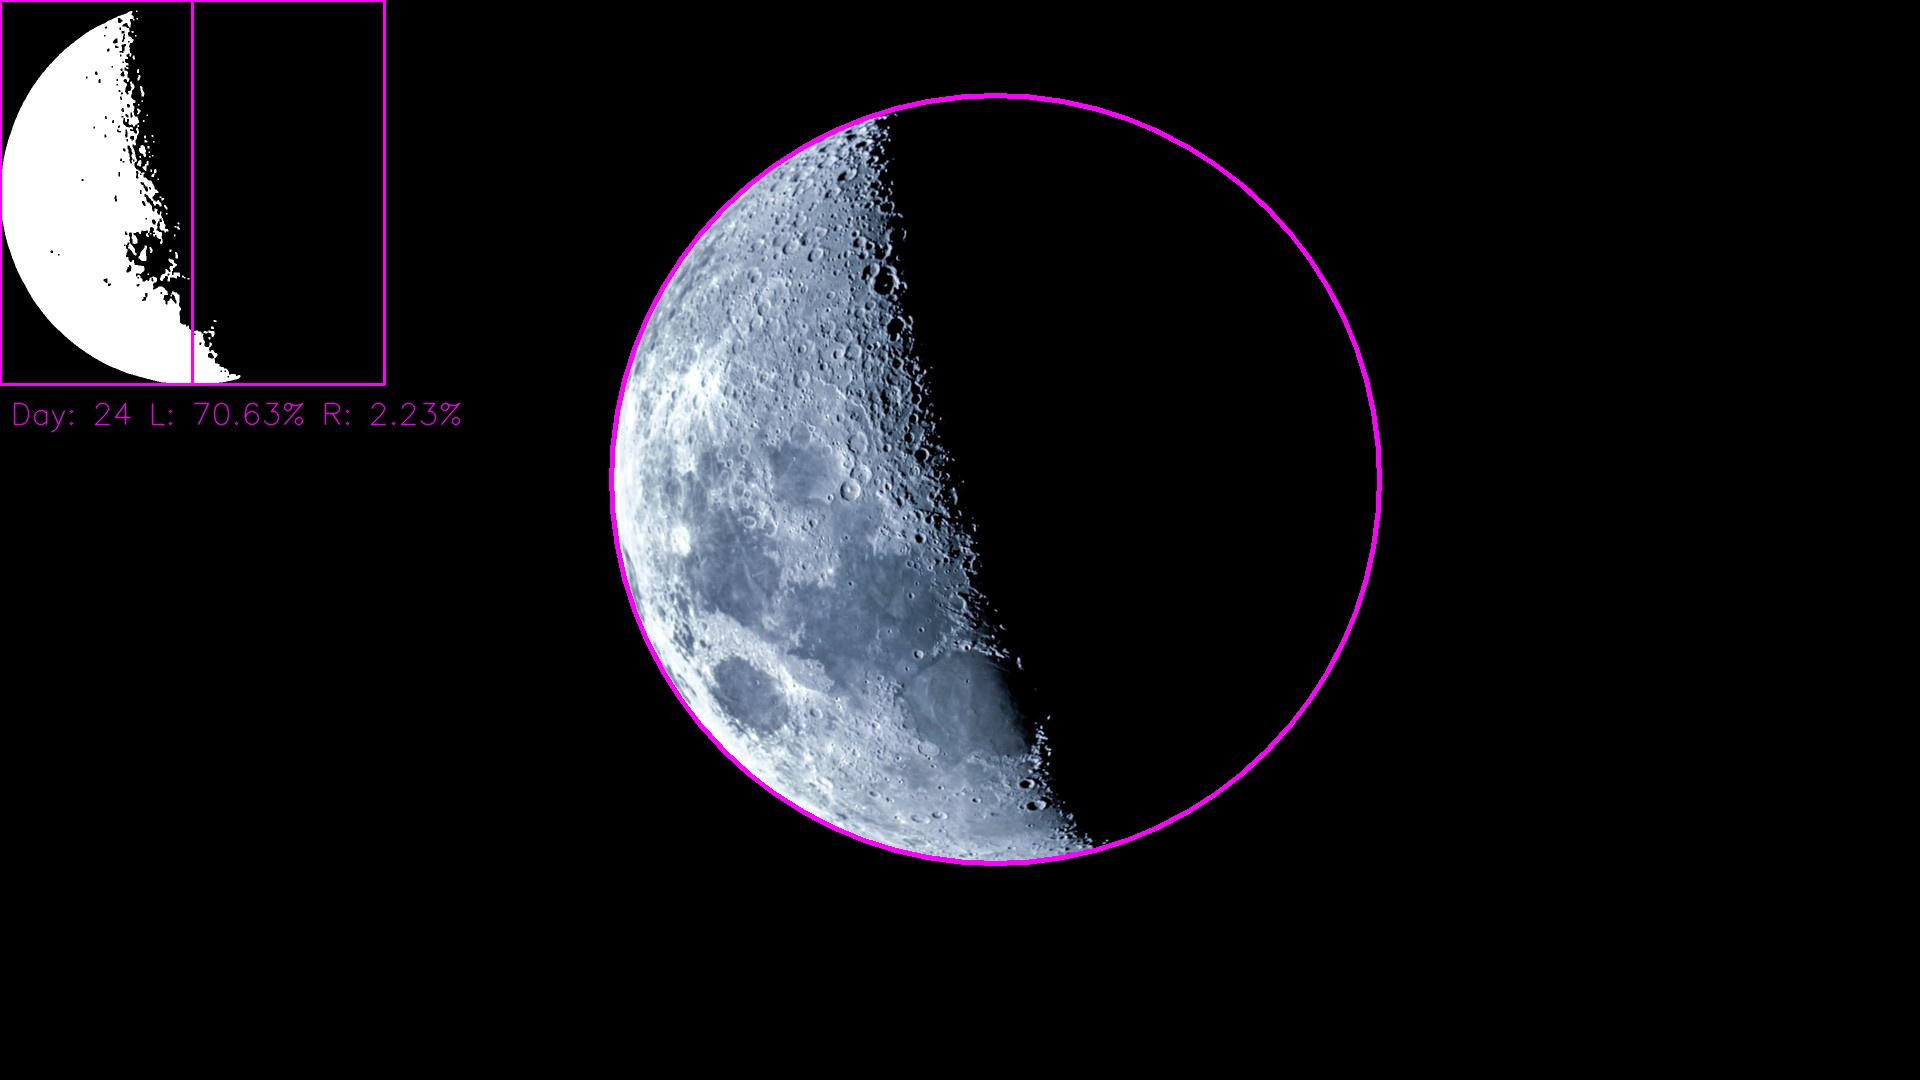
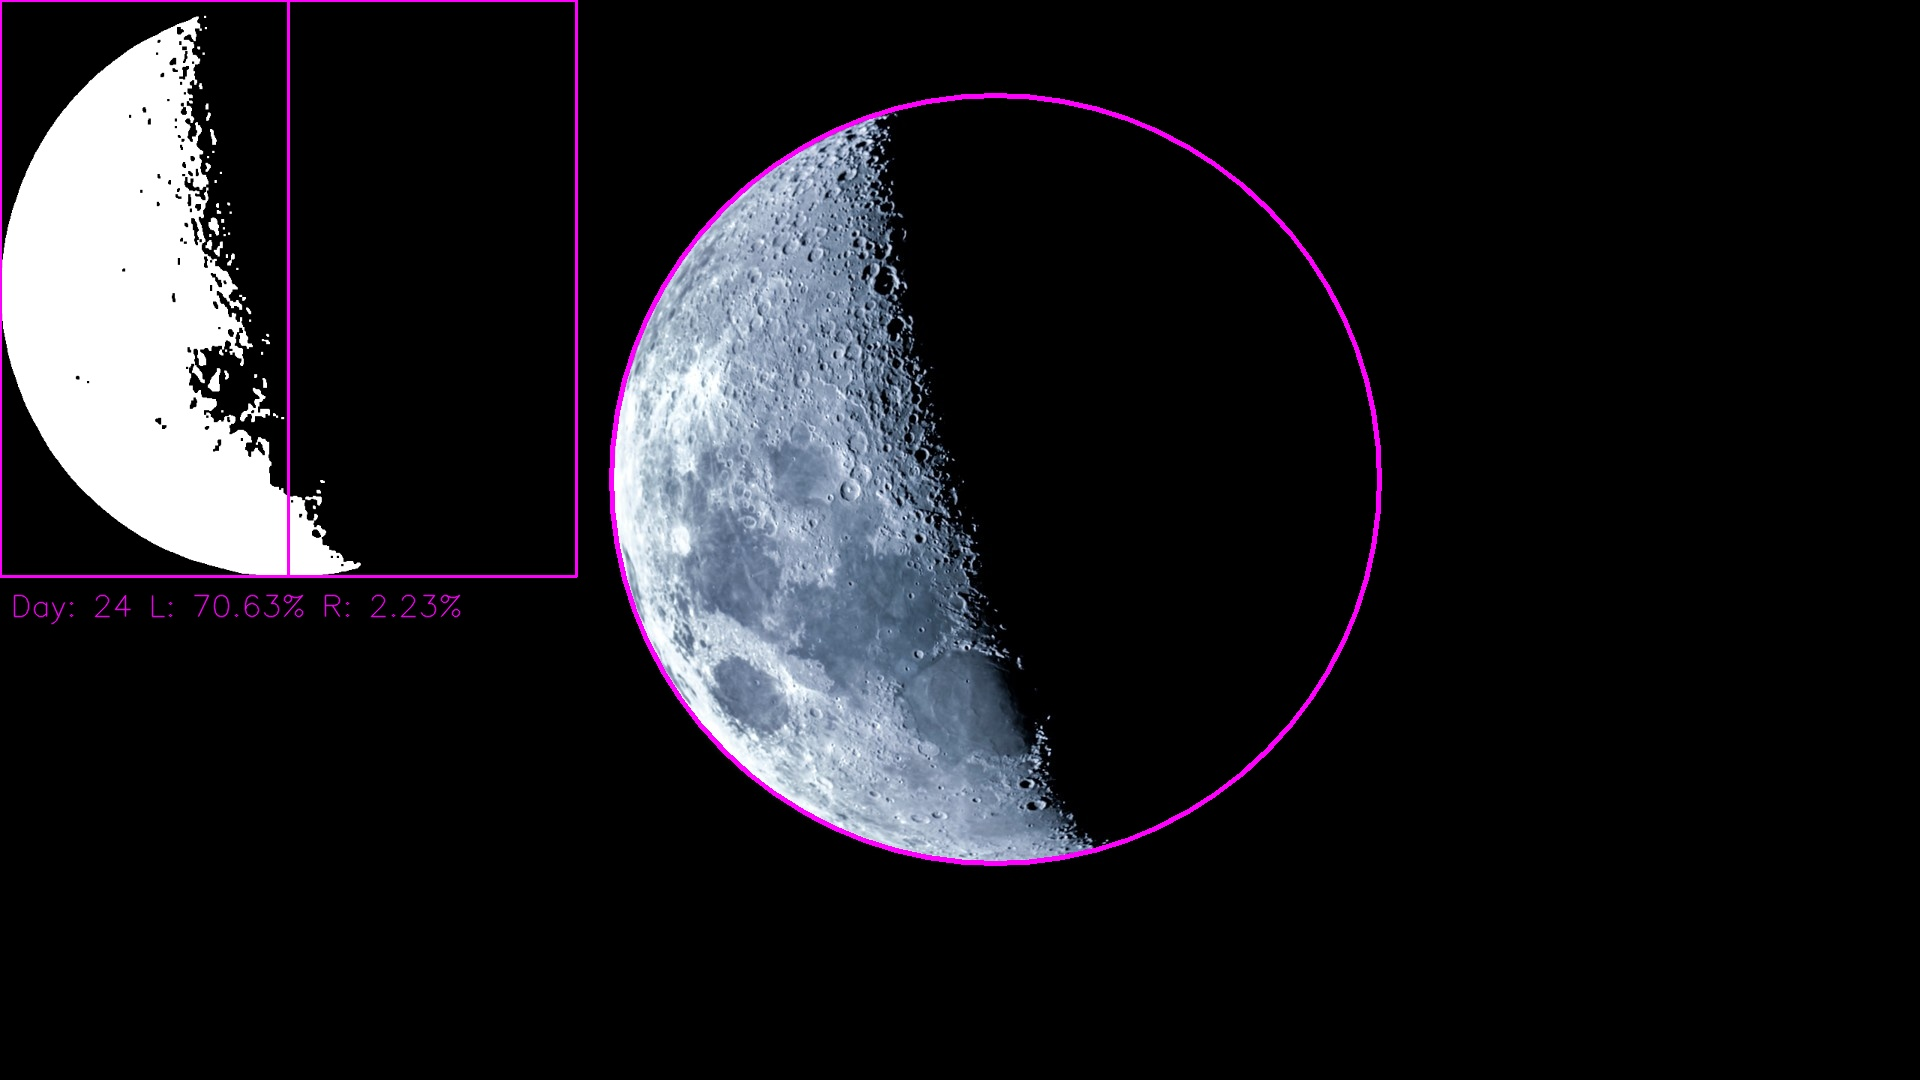
finished prototype
added: moon generation and display, rotation based on latitude, correct phase calculation

Changed region(s): [[0.0, 0.0, 0.3125, 0.5806], [0.2812, 0.0, 0.3125, 0.0306], [0.1875, 0.0, 0.2188, 0.0306]]

diff --git a/project_elec_troll.py b/project_elec_troll.py
@@ -4,18 +4,59 @@ import ephem
 import cv2
 import numpy as np
 
+def rotate(img, angle, center=None):
+    height, width = img.shape[0:2]
+    if center is None:
+        center = (width//2, height//2)
+
+    rotation_matrix = cv2.getRotationMatrix2D(center, angle, 1.0)
+
+    dimensions = (width, height)
+    return cv2.warpAffine(img, rotation_matrix, dimensions)
+
 if __name__ == "__main__":
-    g = geocoder.ip('me')
-    print(g.latlng)
+    g = geocoder.ip('me').latlng[0]
 
-    date = ephem.Date(datetime.date.today())
-    last_moon = ephem.previous_new_moon(date)
+    moon_res = 500
+    cv2.namedWindow("out", cv2.WINDOW_NORMAL)
+    img = np.zeros((moon_res, moon_res, 3), dtype=np.uint8)
+    cv2.rectangle(img,(0,0),(moon_res, moon_res),(255,0,255),-1)
 
-    img = np.zeros((500,500), dtype=int)
+    phase = round(((datetime.date.today() - datetime.date(1999, 8, 11)).days % 29.53059)/29.53059,2)
+    print(phase)
+
+    main_color = (255,255,255)
+    secondary_color = (0,0,0)
+    quarter_phase = 0 #0 to 1 float
+    half_phase_start = 270 #angle (90 or 270)
+
+    if phase <= 0.25:
+        quarter_phase = 1 - phase
+
+    elif phase > 0.25 and phase <= 0.5:
+        quarter_phase = phase - 0.25
+
+    elif phase > 0.5 and phase <= 0.75:
+        quarter_phase = 1 - (phase - 0.5)
+
+    else:
+        quarter_phase = phase - 0.75
+
+    if phase > 0.25 and phase <= 0.75:
+        main_color = (0,0,0)
+        secondary_color = (255,255,255)
+        half_phase_start = 90
+
+    print(quarter_phase)
+
+    cv2.circle(img, (moon_res//2,moon_res//2), moon_res//2, main_color, -1)
+    cv2.ellipse(img, (moon_res//2,moon_res//2), (int((moon_res//2)*quarter_phase), moon_res//2), 0, 0, 360, secondary_color, -1)
+    cv2.ellipse(img, (moon_res//2,moon_res//2), (moon_res//2, moon_res//2), half_phase_start, 0, 180, secondary_color, -1)
+
+    img = rotate(img, -g)
+
     cv2.imshow("out", img)
     cv2.waitKey(0)
-    cv2.destroyAllWindows()   
-
-    print(date - last_moon)
+    cv2.destroyAllWindows()
 
 
